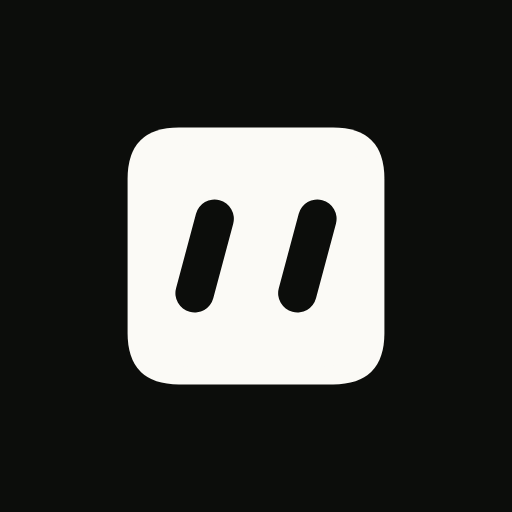
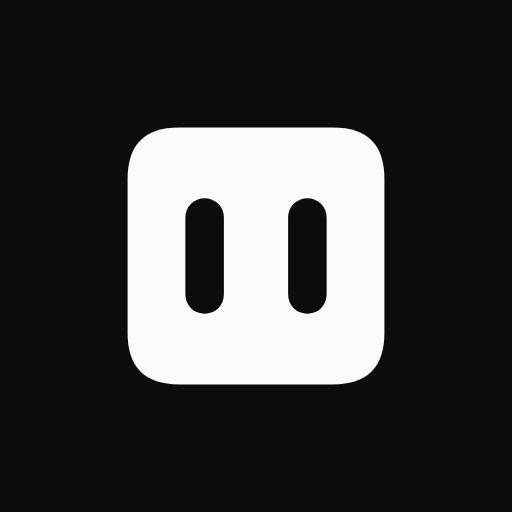
.398 the lean is the turn, not a constant
A fixed lean is just a differently-drawn colon: the mark wore the same cocked
head at rest, turned left and turned right, and something that never changes is
not an expression.

The lean comes off how far the FACE has turned, signed. It falls out of the
face's own normal — n[0] is how far that face points across the screen — which
makes it continuous through the whole rotation and correct per face without
either of them being told which one it is. Measured, front face at rx -4:

  ry   0    0.0°        ry 100   back -20.0°
  ry  10    6.3°        ry 150   back -18.0°
  ry  30   18.0°        ry 180   back   0.0°
  ry  45   20.0°        ry 210   back  18.0°
  ry  80   20.0°        ry 300  front -20.0°

Upright face on, fully leant by about 34 degrees — which is where the glance and
the corner sit, so the moves the mark actually makes use the whole of it — and
back through upright as the far face comes round at 180.

MC_TILT_GAIN 1.8 is how quickly the turn takes it there. MC_TILT_GAZE 0.9 lets a
sideways look lean it a little at rest, so the resting square is upright without
being rigid.

The sign on the back face stays: n[0] is measured on screen and the lean is
drawn in the face's own space, which that face mirrors. Both eyes still lean
together rather than splaying — mirrored, the two would describe a shape between
them and the mark would have a brow.

The icon is face on, so its eyes are upright again and icon-512 is back to what
it was at .396.
[…]

diff --git a/index.html b/index.html
@@ -26,8 +26,8 @@
 <!-- The mark itself: a full-bleed lime field with the two eyes on it. Full bleed
      because iOS rounds the corners of a home-screen icon for you, and rounding them
      here as well would inset the plate inside its own rounding. -->
[4 lines of base64/hex data omitted]
 <!-- THE FONT DOES NOT HOLD THE PAGE UP ANY MORE.
      It was pulled by @import from inside the stylesheet, which is the slowest way there is
      to load one: discovered only after the CSS has parsed, render-blocking once it is, and
@@ -5915,18 +5915,24 @@ let eyeSettleTimer = null;
    cheap way to round a polygon and it cannot be clipped to — clipPath uses fill geometry and
    throws the stroke away — which is exactly what the core has to be clipped to. */
 const MC_R = 0.20, MC_INSET = 0.86, MC_RAD = Math.PI / 180;
-/* HOW FAR THE CAPSULES LEAN, in degrees, both the same way rather than splayed apart.
-   Upright they read as a colon — two marks of punctuation sitting on a square. Leaning, the
-   pair reads as one expression, because a tilt is something a face DOES and a vertical is
-   just where a shape was put. Both lean together for the same reason: mirrored, the two would
-   describe a shape between them and the mark would have a brow. Parallel, they are one
-   gesture drawn twice.
+/* THE LEAN IS THE TURN, NOT A CONSTANT.
+   Upright, the two capsules read as a colon — two marks of punctuation sitting on a square.
+   Leaning, the pair reads as one expression, because a tilt is something a face DOES. But a
+   FIXED lean is just a differently-drawn colon: the mark wears the same cocked head at rest,
+   turned left and turned right, and something that never changes is not an expression.
 
-   Applied in the FACE's own coordinates, so it foreshortens with everything else on it — and
-   negated on the back face, because that face is mirrored by its own half turn and a lean
-   drawn the same in local space would come out leaning the other way on screen. The two
-   faces are a duplicate of one mark, not the front and back of one object. */
-const MC_EYE_TILT = 15;
+   So the lean comes off how far the face has turned, signed: none at all face on, and more
+   the further round it goes, in whichever direction it went. It falls out of the face's own
+   normal — n[0] is how far that face points across the screen — which makes it continuous
+   through the whole rotation and correct per face without either of them being told which
+   one it is. Both eyes still lean together: mirrored, the two would describe a shape between
+   them and the mark would have a brow; parallel, they are one gesture drawn twice.
+
+   MC_EYE_TILT is the most it ever leans and MC_TILT_GAIN is how quickly the turn takes it
+   there — 1.8 means fully leant by about 34 degrees, which is where the glance and the
+   corner sit, so the moves the mark actually makes use the whole of it. MC_TILT_GAZE lets a
+   sideways look lean it a little at rest, so the resting square is upright but not rigid. */
+const MC_EYE_TILT = 20, MC_TILT_GAIN = 1.8, MC_TILT_GAZE = 0.9;
 const mcState = { rx:0, ry:0, rz:0, gx:0, gy:0, aimGx:0, aimGy:0, gazeAt:0,
                   blink:1, blinkAt:0, raf:null, born:0, step:null, queue:[], nextAt:0 };
 function mcProject(rx, ry, rz){
@@ -6164,10 +6170,17 @@ function mcPaint(m){
     const ax = P(Q([1,0,0])), w = Math.max(0.6, ew * Math.hypot(ax[0], ax[1]));
     const half = Math.max(0, eh/2 - ew/2);
     const gx = mcState.gx * ew * 0.85, gy = mcState.gy * s * 0.06;
-    /* The lean, as the offset between a capsule's two ends. It comes off HALF, which is the
-       straight part of the capsule rather than its full length — so a blink, which shortens
-       half toward zero, closes the lean along with it instead of leaving two tilted dots. */
-    const lean = (face ? -1 : 1) * MC_EYE_TILT * MC_RAD;
+    /* n[0] is measured on SCREEN, and the lean is drawn in the face's own space — which the
+       back face mirrors, so a lean written the same in local coordinates comes out leaning
+       the other way. Hence the sign: the two faces are a duplicate of one mark, not the front
+       and back of one object, and the mark has to come back from a half turn leaning the way
+       it left.
+
+       The offset comes off HALF, the straight part of the capsule rather than its full
+       length, so a blink shortens the lean along with it instead of leaving two tilted dots
+       behind. */
+    const swing = Math.max(-1, Math.min(1, n[0]*MC_TILT_GAIN + mcState.gx*MC_TILT_GAZE));
+    const lean = (face ? -1 : 1) * MC_EYE_TILT * swing * MC_RAD;
     const lx = Math.sin(lean) * half, ly = Math.cos(lean) * half;
     for(const sg of [-1,1]){
       const x = sg * (gap/2 + ew/2) + gx;
